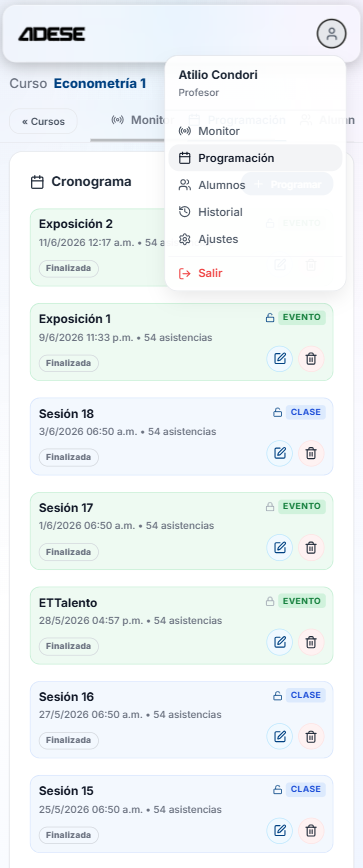
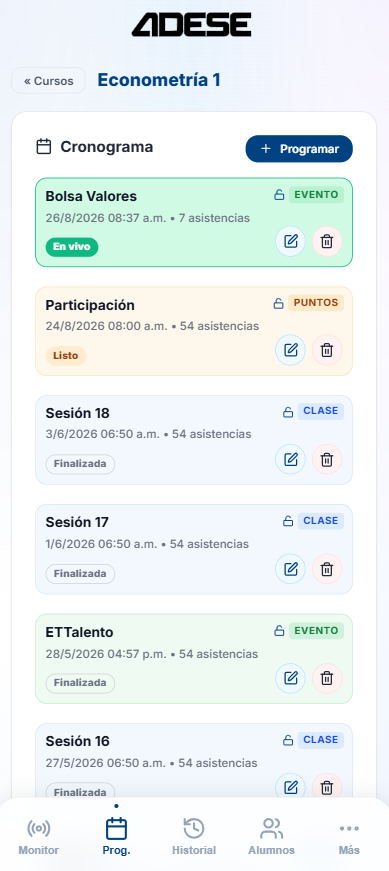
edit readme

diff --git a/README.md b/README.md
@@ -1,73 +1,235 @@
-# ADESE 🎓 `v5.0.0`
+<div align="center">
 
-Una aplicación web moderna diseñada para registrar, controlar y gestionar de manera interactiva y centralizada la asistencia y el rendimiento de estudiantes en tiempo real.
+  <img src="./public/adese_icon.svg" alt="ADESE Logo" width="120" />
 
-**Adese** (Asistencia Digital Estratégica para el Sector Educativo) cuenta con una arquitectura robusta multi-rol y multi-curso. Fue estructurado bajo un enfoque _Mobile-First_ pensando en la facilidad para que los alumnos confirmen su presencia escaneando un código QR dinámico. Todo el sistema está orquestado mediante **Docker**, aislando de forma segura la Base de Datos, el API Backend y el Frontend.
+  # 🎓 ADESE `v5.0.0`
+  ### **Asistencia Digital Estratégica para el Sector Educativo**
 
-## 🚀 Características y Funcionalidades Principales
+  Una plataforma web integral, interactiva y multi-rol diseñada para **registrar, controlar y gestionar en tiempo real la asistencia y el rendimiento estudiantil** mediante códigos QR dinámicos y analíticas avanzadas.
 
-- **Arquitectura Multi-Rol Avanzada:** Soporte unificado para 3 roles de usuario distintos:
-  - **Administrador:** Panel de control (Dashboard) global. Capacidad de crear/editar usuarios, crear cursos y matricular a docentes y alumnos en múltiples cursos simultáneamente (soporta co-docencia: múltiples profesores en un mismo curso).
-  - **Docente:** Control total de las sesiones de los cursos donde está asignado.
-  - **Alumno:** Interfaz optimizada para escaneo rápido de asistencias e historial propio.
-- **Estados de Asistencia Dinámicos:** Los profesores o administradores pueden personalizar los estados de asistencia (Puntual, Presente, Tarde, Falto, Justificado, etc.), asignando un color distintivo y un **puntaje numérico** a cada uno para evaluación de desempeño.
-- **Control de Horario Flexible:** Límites de tiempo 100% configurables por el docente para cada sesión. El sistema bloquea inteligentemente el registro fuera de los horarios establecidos o aplica el estado "Tarde" o "Falto" automáticamente basándose en la hora exacta.
-- **Escaneo de Código QR Activo:** La pantalla del profesor genera códigos interactivos (JWT) renovables cada pocos segundos, impidiendo que el alumno haga fraude con capturas de pantalla antiguas.
-- **Interfaz "Glassmorphism" Premium:** Diseño UI/UX moderno, fluido y altamente responsivo. Incluye animaciones sutiles, efectos de cristal y una excelente adaptación a dispositivos móviles (pestañas deslizantes, menús flotantes).
-- **Gestión en Tiempo Real:**
-  - Monitor en vivo de quién llegó, estado automático de asistencia y hora de registro.
-  - Modificación manual, justificaciones y exportación de datos.
+  [![React](https://img.shields.io/badge/Frontend-React%2018-61DAFB?logo=react&logoColor=black)](https://react.dev/)
+  [![Vite](https://img.shields.io/badge/Build-Vite-646CFF?logo=vite&logoColor=white)](https://vitejs.dev/)
+  [![Node.js](https://img.shields.io/badge/Backend-Node.js-339933?logo=nodedotjs&logoColor=white)](https://nodejs.org/)
+  [![Express](https://img.shields.io/badge/Framework-Express-000000?logo=express&logoColor=white)](https://expressjs.com/)
+  [![PostgreSQL](https://img.shields.io/badge/Database-PostgreSQL-4169E1?logo=postgresql&logoColor=white)](https://www.postgresql.org/)
+  [![Docker](https://img.shields.io/badge/Deployment-Docker-2496ED?logo=docker&logoColor=white)](https://www.docker.com/)
+  [![License](https://img.shields.io/badge/License-MIT-green.svg)](LICENSE)
+
+  <br />
+
+  <img src="./public/home.png" alt="ADESE Laptop Dashboard" width="100%" style="border-radius: 12px; box-shadow: 0 10px 30px rgba(0,0,0,0.3);" />
+
+</div>
+
+---
+
+## 📖 Índice
+
+- [✨ Descripción General](#-descripción-general)
+- [📱 Vista Previa (Web & Mobile)](#-vista-previa-web--mobile)
+- [🚀 Características Principales](#-características-principales)
+- [👤 Roles y Capacidades](#-roles-y-capacidades)
+- [🛠 Stack Tecnológico](#-stack-tecnológico)
+- [📁 Estructura del Proyecto](#-estructura-del-proyecto)
+- [🗄 Arquitectura de Base de Datos](#-arquitectura-de-base-de-datos)
+- [⚙ Guía de Instalación y Despliegue](#-guía-de-instalación-y-despliegue)
+- [🤝 Licencia](#-licencia)
+
+---
+
+## ✨ Descripción General
+
+**ADESE** revoluciona la toma de asistencia en el aula sustituyendo los métodos manuales tradicionales por un flujo **100% digital, automatizado y seguro**. 
+
+Con un enfoque **Mobile-First**, la plataforma genera códigos QR dinámicos en la pantalla del profesor que expiran continuamente (tecnología basada en JWT tokenizados). Los alumnos escanean el código directamente desde sus dispositivos móviles, registrando su presencia con fecha, hora exacta y cálculo automático de tardanza o falta segun la tolerancia configurada.
+
+---
+
+## 📱 Vista Previa (Web & Mobile)
+
+<div align="center">
+  <table>
+    <tr>
+      <td align="center" width="50%">
+        <b>💻 Panel Web (Laptop / Desktop)</b><br/><br/>
+        <img src="./public/home.png" alt="Vista Web Laptop Dashboard" width="100%" style="border-radius: 8px;" />
+      </td>
+      <td align="center" width="25%">
+        <b>📱 Escaneo Alumno (Mobile)</b><br/><br/>
+        <img src="./public/phone.png" alt="Vista Mobile Alumno" width="100%" style="border-radius: 8px;" />
+      </td>
+      <td align="center" width="25%">
+        <b>📲 QR Dinámico</b><br/><br/>
+        <img src="./public/qrd.jpg" alt="Vista QR Dinámico" width="100%" style="border-radius: 8px;" />
+      </td>
+    </tr>
+  </table>
+</div>
+
+---
+
+## 🚀 Características Principales
+
+| Característica | Descripción |
+| :--- | :--- |
+| **🛡 QR Dinámico Anti-Fraude** | Códigos QR dinámicos basados en JWT que cambian automáticamente cada pocos segundos para evitar capturas de pantalla compartidas entre alumnos. |
+| **⏱ Horarios y Tolerancia Flexible** | Los docentes pueden personalizar el margen de tolerancia por clase. El sistema determina automáticamente si la asistencia es *Puntual*, *Tarde* o *Falta*. |
+| **📊 Estados con Ponderación Numérica** | Creación de estados personalizados (ej. *Puntual = 20 pts*, *Tarde = 15 pts*, *Falto = 0 pts*) con colores representativos y puntaje acumulativo. |
+| **💎 UI Glassmorphism Premium** | Interfaz moderna con temas oscuros, animaciones fluidas, componentes translúcidos de cristal (*Glassmorphism*) y diseño responsivo. |
+| **⚡ Monitoreo en Tiempo Real** | Visualización en vivo de los estudiantes que ingresan a la sesión, estado automático asignado y opción de edición manual/justificaciones. |
+| **📁 Exportación e Importación** | Soporte de carga masiva de alumnos/cursos desde archivos Excel/CSV y exportación de reportes de asistencia. |
+
+---
+
+## 👤 Roles y Capacidades
+
+```mermaid
+graph TD
+    A[👑 Administrador] -->|Gestiona| B(Usuarios, Cursos y Matrícula Co-Docente)
+    C[👨🏫 Docente] -->|Gestiona| D(Sesiones, QR Dinámico y Estados de Asistencia)
+    E[🎓 Alumno] -->|Escanea| F(Código QR & Consulta Histórico de Asistencias)
+```
+
+- **👑 Administrador (Admin):**
+  - Panel de control global (Dashboard de metricas).
+  - Creación y gestión de usuarios (Alumnos, Docentes, Admins).
+  - Creación de cursos y matriculación simultánea.
+  - Soporte de **co-docencia** (asignación de múltiples profesores por asignatura).
+- **👨🏫 Docente (Profesor):**
+  - Gestión de sesiones de clase (Creación, Apertura, Cierre).
+  - Pantalla proyectable de QR dinámico interactivo.
+  - Personalización de regla de tolerancia y estados de asistencia con puntaje.
+  - Edición manual de asistencias y aprobación de justificaciones.
+- **🎓 Alumno (Estudiante):**
+  - Interfaz móvil optimizada para escaneo rápido con cámara integrada.
+  - Panel personal con resumen de asistencias, puntualidad y faltas por curso.
+
+---
 
 ## 🛠 Stack Tecnológico
 
-La aplicación está construida sobre un stack moderno y eficiente:
+### **Frontend**
+- **Framework:** React 18 + Vite
+- **Estilos:** Vanilla CSS modular con variables personalizadas y efectos Glassmorphism
+- **Iconos & UI:** `lucide-react`, `react-hot-toast`
+- **Utilidades:** `html5-qrcode` / `qrcode.react` para escaneo y proyección QR
 
-- **Frontend:** React + Vite (Alojado en Node.js, interactivo mediante CSS Moderno).
-- **Backend:** Express API + Node.js (RESTful y robusto).
-- **Base de Datos:** PostgreSQL.
-- **Contenedores:** Docker + Docker Compose, con soporte pgAdmin.
-- **Librerías Adicionales:** Lucide-react (Íconos SVG), QRCode (Generador QR interactivo), JsonWebToken (Autenticación y tokens QR), React Hot Toast (Notificaciones).
+### **Backend & API**
+- **Runtime:** Node.js (API RESTful con Express)
+- **Seguridad / Autenticación:** JSON Web Tokens (JWT) y derivación hash de contraseñas (`bcryptjs`)
+- **Base de Datos:** PostgreSQL con driver `pg`
+
+### **Infraestructura & Contenedores**
+- **Docker & Docker Compose:** Aislamiento del Frontend, Backend API y Postgres.
+- **pgAdmin (Opcional):** Administración gráfica de base de datos incluida en la red interna de Docker.
+
+---
 
 ## 📁 Estructura del Proyecto
 
 ```text
-asistencia-app/
-├── backend/                # API Express + Lógica de Base de Datos
-│   ├── Dockerfile          # Configuración de imagen del backend
-│   ├── index.js            # Punto de entrada de la API (Endpoints)
-│   ├── init.sql            # Esquema central unificado (Tablas, Triggers)
-│   └── package.json        # Dependencias del backend
-├── src/                    # Aplicación React (Frontend UI)
-│   ├── api/                # Cliente para peticiones HTTP
-│   ├── components/         # Componentes UI reutilizables (Modales, Tablas)
-│   ├── pages/              # Vistas principales (AdminPage, TeacherPage, StudentPage)
-│   ├── styles/             # Sistema de diseño dividido (admin.css, teacher.css, etc.)
-│   ├── App.jsx             # Enrutador principal y gestión de sesión global
-│   └── main.jsx            # Punto de entrada de React
-├── .gitignore              # Archivos y secretos excluidos de Git
-├── docker-compose.yml      # Orquestación de contenedores y red interna
-└── README.md               # Documentación general (Este archivo)
+adese/
+├── 📂 .agents/             # Habilidades y reglas del asistente
+├── 📂 api/                 # Configuración adicional de servicios API
+├── 📂 backend/             # Servidor API RESTful Node.js + Express
+│   ├── 📄 index.js         # Endpoints de la API y lógica de negocio
+│   ├── 📄 init.sql         # Script SQL inicial (Tablas, Triggers, Vistas)
+│   ├── 🐳 Dockerfile       # Imagen Docker del servicio Backend
+│   └── 📄 package.json     # Dependencias Backend
+├── 📂 public/              # Recursos estáticos (Logos, imágenes de documentación)
+│   ├── 🖼 adese_icon.svg    # Icono principal de la aplicación
+│   ├── 🖼 home.png          # Vista previa Laptop / Panel Web
+│   ├── 🖼 phone.png         # Vista previa Mobile / Escaneo Alumno
+│   └── 🖼 qrd.jpg           # Vista previa QR Dinámico de sesión
+├── 📂 src/                 # Aplicación Cliente (React UI)
+│   ├── 📂 api/             # Cliente HTTP / Axios para comunicación Backend
+│   ├── 📂 components/      # Componentes de UI reutilizables (Modales, Tablas, QR)
+│   ├── 📂 pages/           # Vistas principales (AdminPage, TeacherPage, StudentPage)
+│   ├── 📂 styles/          # Hojas de estilo estructuradas
+│   ├── 📄 App.jsx          # Enrutador principal y gestión del estado global
+│   └── 📄 main.jsx         # Punto de entrada de Vite/React
+├── 🐳 docker-compose.yml   # Orquestación multicontenedor (Frontend, API, Postgres)
+├── 🐳 Dockerfile           # Imagen Docker del servicio Frontend
+├── 📄 package.json         # Dependencias del Frontend
+├── 📄 vite.config.js       # Configuración de compilación Vite
+└── 📄 README.md            # Documentación del proyecto
 ```
 
-## 🎮 Guía de Inicio (Local)
+---
 
-Al usar Docker Compose, desplegar la aplicación completa requiere un solo comando.
+## 🗄 Arquitectura de Base de Datos
 
-1. Instala [Docker](https://www.docker.com/).
-2. Clona este repositorio o sitúate en la raíz del proyecto.
-3. Asegúrate de configurar tus variables de entorno si vas a desplegar en producción (como las contraseñas).
-4. Levanta todos los servicios escribiendo:
+El modelo relacional centraliza la información en las siguientes entidades unificadas:
+
+```
+[roles] <--- (1:N) ---> [usuarios] <--- (N:M curso_usuarios) ---> [cursos]
+                             |                                      |
+                             | (1:N)                                | (1:N)
+                             v                                      v
+                    [estados_asistencia]                    [sesiones]
+                             \                                     /
+                              \---> (1:N) -> [asistencias] <- (1:N)-/
+```
+
+- **`roles`**: Define niveles de acceso (`admin`, `docente`, `alumno`).
+- **`usuarios`**: Entidad central con credenciales y datos de perfil.
+- **`cursos`**: Asignaturas o materias impartidas.
+- **`curso_usuarios`**: Tabla intermedia de matriculación y asignación de profesores (admite co-docencia).
+- **`estados_asistencia`**: Tipos de marca parametrizables (*Puntual*, *Tarde*, *Falto*, *Justificado*) con su peso en puntos.
+- **`sesiones`**: Clases individuales abiertas por los docentes con parámetros de tolerancia y fechas.
+- **`asistencias`**: Registros transaccionales de marcajes con marcas de tiempo y estado automático calculado.
+
+---
+
+## ⚙ Guía de Instalación y Despliegue
+
+### 🐳 Opción A: Despliegue Rápido con Docker Compose (Recomendado)
+
+Requisitos previos: tener instalado **Docker** y **Docker Compose**.
+
+1. **Clonar el repositorio:**
+   ```bash
+   git clone https://github.com/tu-usuario/adese.git
+   cd adese
+   ```
+
+2. **Iniciar todos los servicios:**
    ```bash
    docker-compose up -d --build
    ```
-5. El Frontend estará expuesto en el puerto `5173`, el Backend en `3000` y la base de datos en `5432`.
 
-## 🗄 Arquitectura de Base de Datos (Esquema Unificado)
+3. **Acceder a la aplicación:**
+   - 🌐 **Frontend App:** `http://localhost:5173`
+   - ⚡ **Backend API:** `http://localhost:3000`
+   - 🐘 **PostgreSQL DB:** `localhost:5432`
 
-- `roles`: Define los niveles de acceso (Admin, Docente, Alumno).
-- `usuarios`: Tabla maestra que centraliza todos los perfiles de la plataforma usando su código/identificador y enlazando su rol respectivo.
-- `cursos`: Catálogo de asignaturas o materias.
-- `curso_usuarios`: Tabla de asignación (N:M) que funciona como "Matrícula". Vincula usuarios (tanto docentes como alumnos) a cursos específicos.
-- `estados_asistencia`: Tipos de asistencia configurables (Puntual, Falto, etc.) parametrizados por profesor y con pesos de evaluación.
-- `sesiones`: Manejo de clases individuales (abiertas, cerradas) pertenecientes a un curso, control de fechas y límites de tolerancia.
-- `asistencias`: Registro transaccional que documenta el marcaje exacto de un alumno en una sesión y su estado dinámico calculado.
+---
+
+### 💻 Opción B: Ejecución Local para Desarrollo
+
+#### 1. Backend (API)
+```bash
+cd backend
+npm install
+npm run dev
+```
+
+#### 2. Frontend (React)
+En una nueva terminal en la raíz del proyecto:
+```bash
+npm install
+npm run dev
+```
+Accede a `http://localhost:5173`.
+
+---
+
+## 🤝 Licencia
+
+Este proyecto está distribuido bajo la licencia **MIT**. Para más detalles, consulta el archivo [LICENSE](LICENSE).
+
+---
+
+<div align="center">
+  <sub>Desarrollado con ❤ para transformar la gestión educativa.</sub>
+</div>
